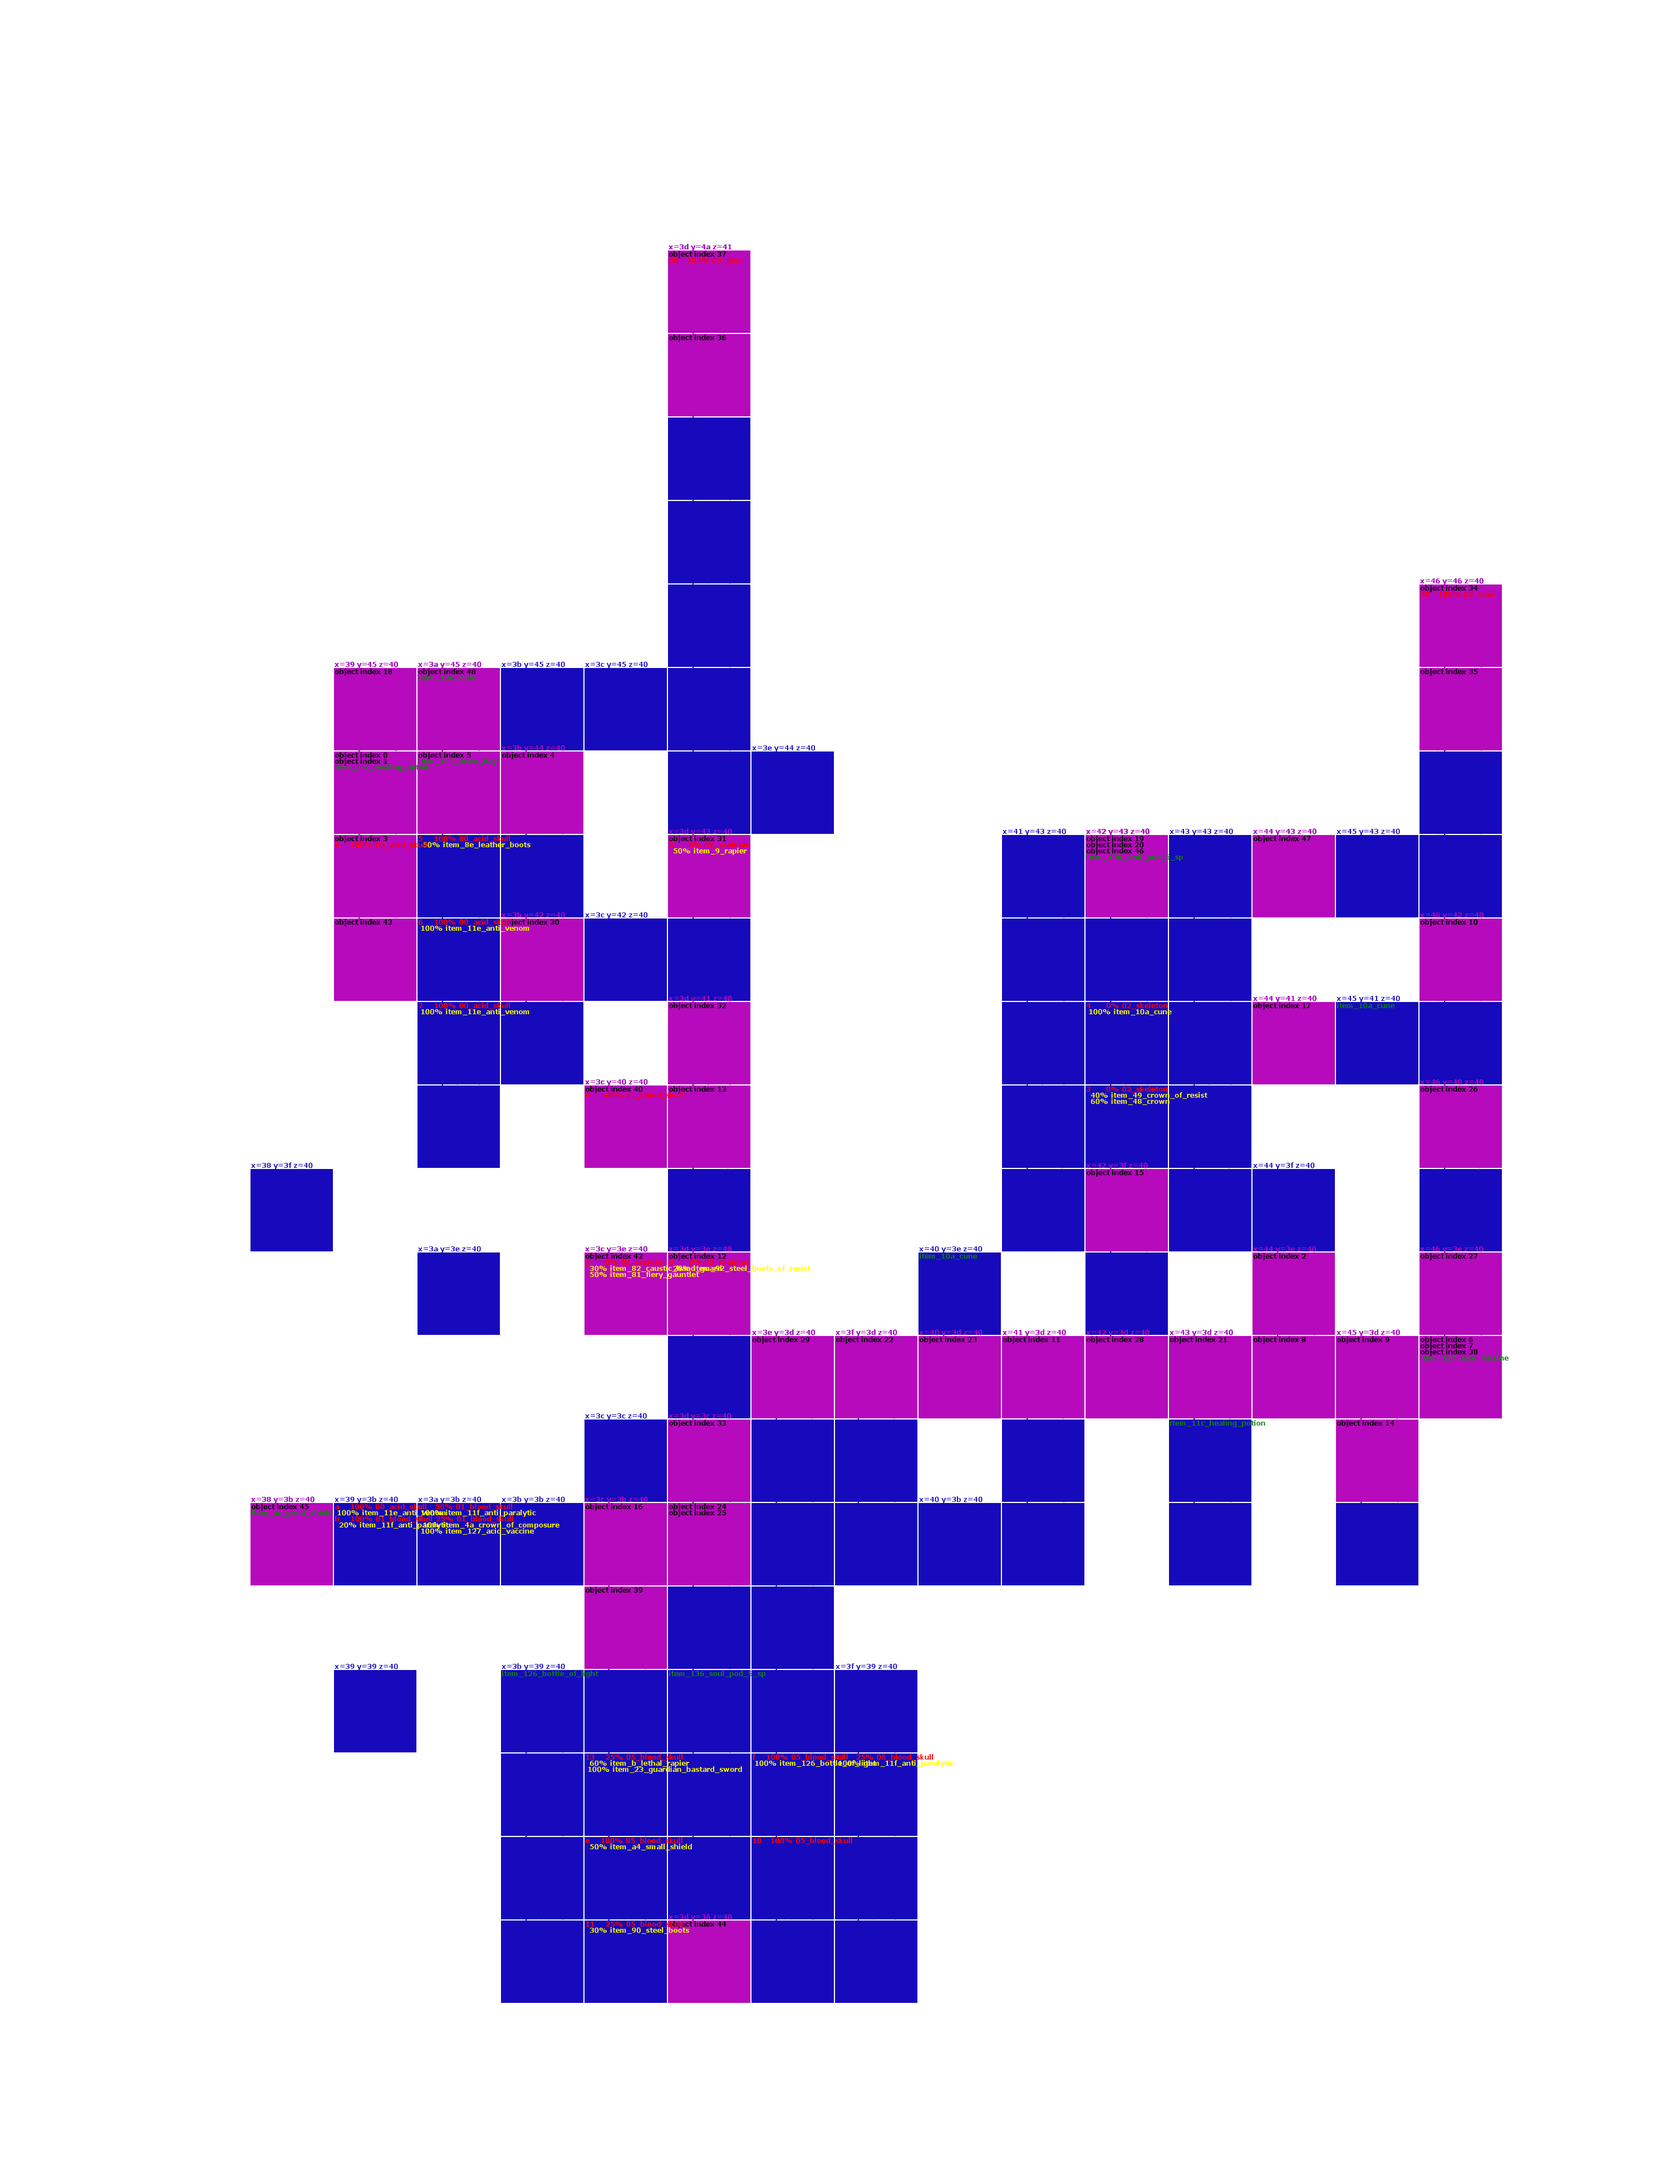
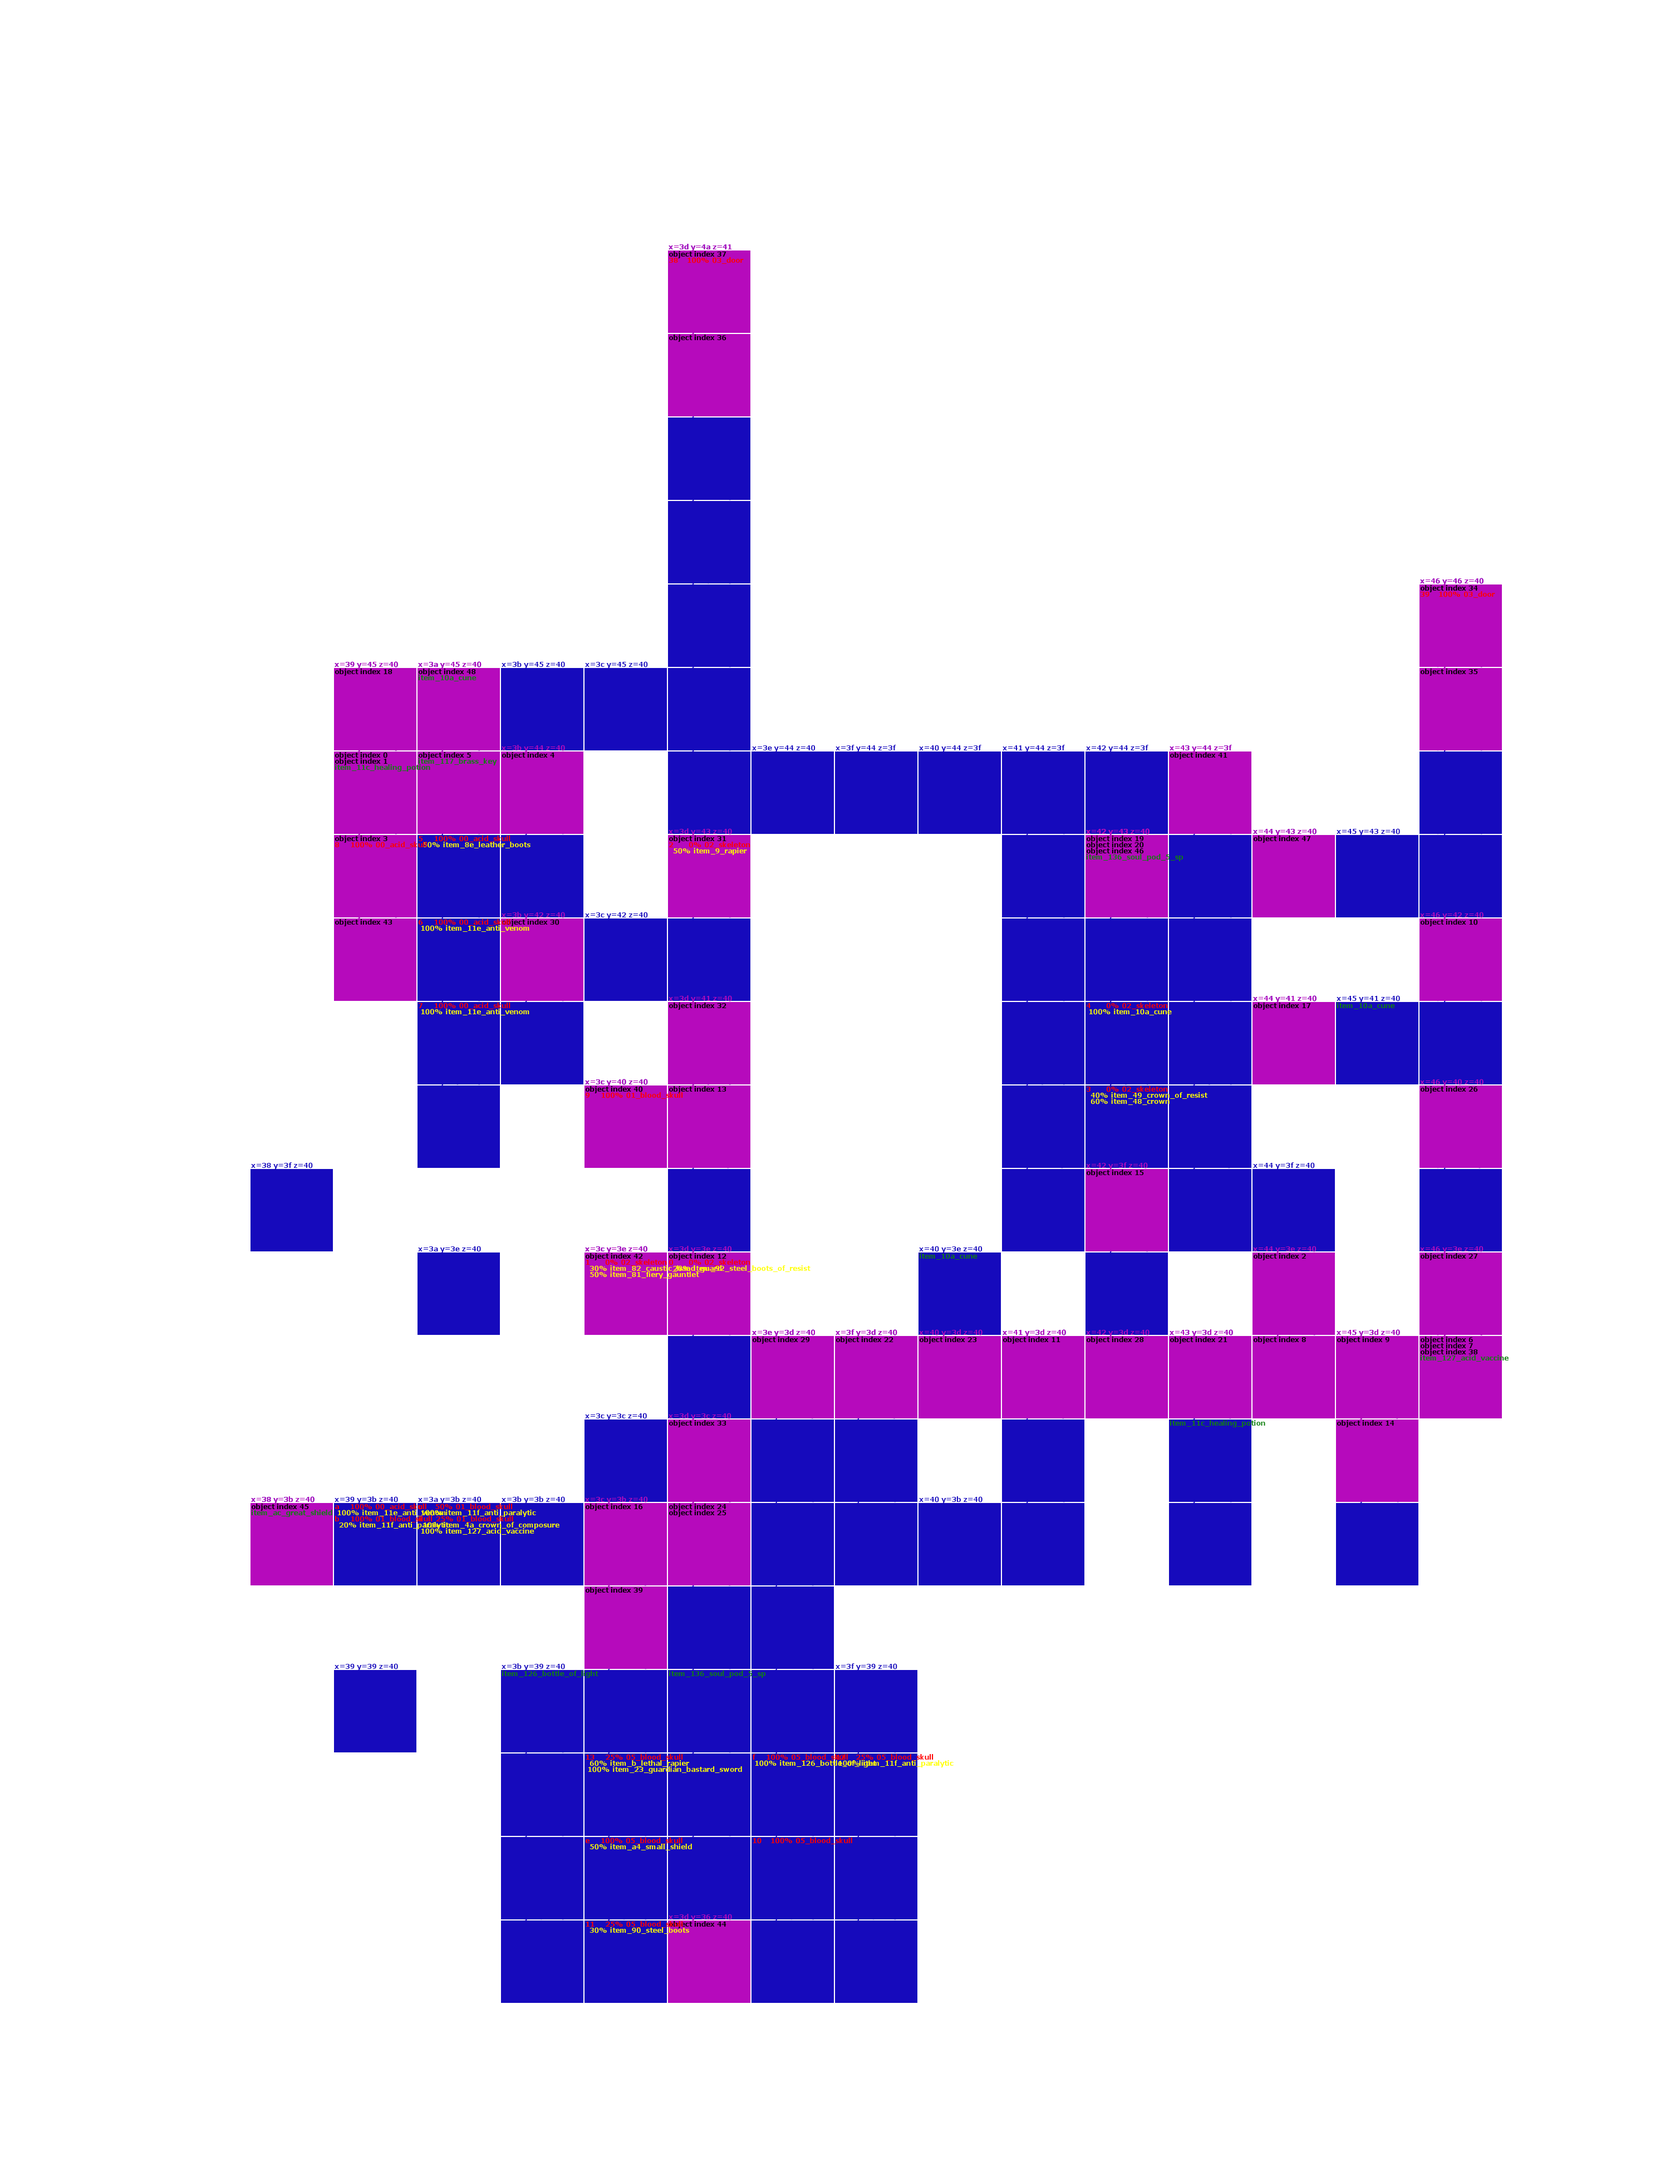
mapping totems and portals

Changed region(s): [[0.496, 0.3413, 0.775, 0.4033]]

diff --git a/randomize.js b/randomize.js
@@ -531,14 +531,45 @@ for (var a in areas) {
 //	human_world_solitary_region.objects[t].blank();
 //}
 
+// portal
+illusion_world_dream_domain.objects[3].set(illusion_world_worship_domain.objects[6]);
+
+// totem swap
+monster_world_screeching_area.objects[3].set(monster_world_false_eye_area.objects[10]);
+
+//monster_world_screeching_area.objects[3].bin[monster_world_screeching_area.objects[3].offset_in_file+22]=3;
+// //monster_world_screeching_area.objects[2].bin[
+//	monster_world_screeching_area.objects[2].offset_in_file+16] = 0; // destination map index
+
+
 // swap door
-shadow_tower_part1.objects[0].swap(shadow_tower_part1.objects[11]);
+//shadow_tower_part1.objects[0].bin[shadow_tower_part1.objects[0].offset_in_file+16] = 0; // destination tile x shift
+//shadow_tower_part1.objects[0].bin[shadow_tower_part1.objects[0].offset_in_file+17] = 0; // destination tile y shift
+//shadow_tower_part1.objects[0].bin[shadow_tower_part1.objects[0].offset_in_file+18] = 1;//1; destination tile z shift
+// //shadow_tower_part1.objects[0].bin[shadow_tower_part1.objects[0].offset_in_file+21] = 0; // destination map index
+//shadow_tower_part1.objects[0].bin[shadow_tower_part1.objects[0].offset_in_file+22] = 0; // angle 1=90
+//shadow_tower_part1.objects[0].bin[shadow_tower_part1.objects[0].offset_in_file+23] = 0xfd; // destination y fine position
+
+//human_world_solitary_region.objects[38].set(human_world_cursed_region.objects[31]);
+//human_world_solitary_region.objects[38].bin[human_world_solitary_region.objects[38].offset_in_file+16] = 0xfc; // destination tile x shift
+//human_world_solitary_region.objects[38].bin[human_world_solitary_region.objects[38].offset_in_file+17] = 6; // destination tile y shift
+//human_world_solitary_region.objects[38].bin[human_world_solitary_region.objects[38].offset_in_file+18] = 0xff;//1; destination tile z shift
+//human_world_solitary_region.objects[38].bin[human_world_solitary_region.objects[38].offset_in_file+22] = 2; // angle 1=90
+//human_world_solitary_region.objects[38].bin[human_world_solitary_region.objects[38].offset_in_file+23] = 0xf8; // destination y fine position
+
+//shadow_tower_part1.objects[0].bin[shadow_tower_part1.objects[0].offset_in_file+22] = 1;
+//shadow_tower_part1.objects[0].bin[shadow_tower_part1.objects[0].offset_in_file+23] = 0xf8;
+
+//monster_world_screeching_area.objects[3].swap(human_world_forgotten_region.objects[20]);
+
+//human_world_solitary_region.objects[38].swap(earth_world_stone_cavern.objects[7]);
+//shadow_tower_part1.objects[0].swap(shadow_tower_part1.objects[11]);
 
 // swap door model
-shadow_tower_part1.spawns[0x3a].tileId.swap(shadow_tower_part1.spawns[0x39].tileId);
-shadow_tower_part1.spawns[0x3a].x.swap(shadow_tower_part1.spawns[0x39].x);
-shadow_tower_part1.spawns[0x3a].y.swap(shadow_tower_part1.spawns[0x39].y);
-shadow_tower_part1.spawns[0x3a].z.swap(shadow_tower_part1.spawns[0x39].z);
+//shadow_tower_part1.spawns[0x3a].tileId.swap(shadow_tower_part1.spawns[0x39].tileId);
+//shadow_tower_part1.spawns[0x3a].x.swap(shadow_tower_part1.spawns[0x39].x);
+//shadow_tower_part1.spawns[0x3a].y.swap(shadow_tower_part1.spawns[0x39].y);
+//shadow_tower_part1.spawns[0x3a].z.swap(shadow_tower_part1.spawns[0x39].z);
 
 for (var a in areas) {
 	var area = areas[a];

diff --git a/data_model.js b/data_model.js
@@ -639,7 +639,7 @@ class Area  {
       "fire_world_phoenix_cave": {0:REMOVE_TILE, 1:REMOVE_TILE, 2:0},
       "human_world_solitary_region": {0:REMOVE_TILE, 1:0, 2:REMOVE_TILE, 3:1},
       "human_world_hidden_region": {},
-      "human_world_forgotten_region": {0:REMOVE_TILE, 1:0},
+      "human_world_forgotten_region": {},
       "illusion_world_bewilderment_domain": {0:REMOVE_TILE, 1:0},
       "illusion_world_gloomy_domain": {},
       "water_world_impure_pool_area": {0:REMOVE_TILE, 1:0, 2: REMOVE_TILE, 3: REMOVE_TILE, 4: 1},
@@ -649,7 +649,7 @@ class Area  {
       "illusion_world_worship_domain": {0:REMOVE_TILE, 1:REMOVE_TILE, 2:0},
       "death_world_lingering_curse_layer": {},
       "earth_world_false_pit_cavern": {},
-      "monster_world_screeching area": {},
+      "monster_world_screeching_area": {},
       "fire_world_ashen_cavern": {},
       "fire_world_burning_cavern": {},
       "water_world_sunken_river_area": {},

diff --git a/maps.html b/maps.html
@@ -61,7 +61,7 @@ water_world_watery_labyrinth_area<br>
 <h2>Monster World</h2>
 monster_world_false_eye_area<br>
 <img src="maps/monster_world_false_eye_area.png"/><br>
-area<br>
+monster_world_screeching_area<br>
 <img src="maps/monster_world_screeching_area.png"/><br>
 
 <h2>Illusion World</h2>
